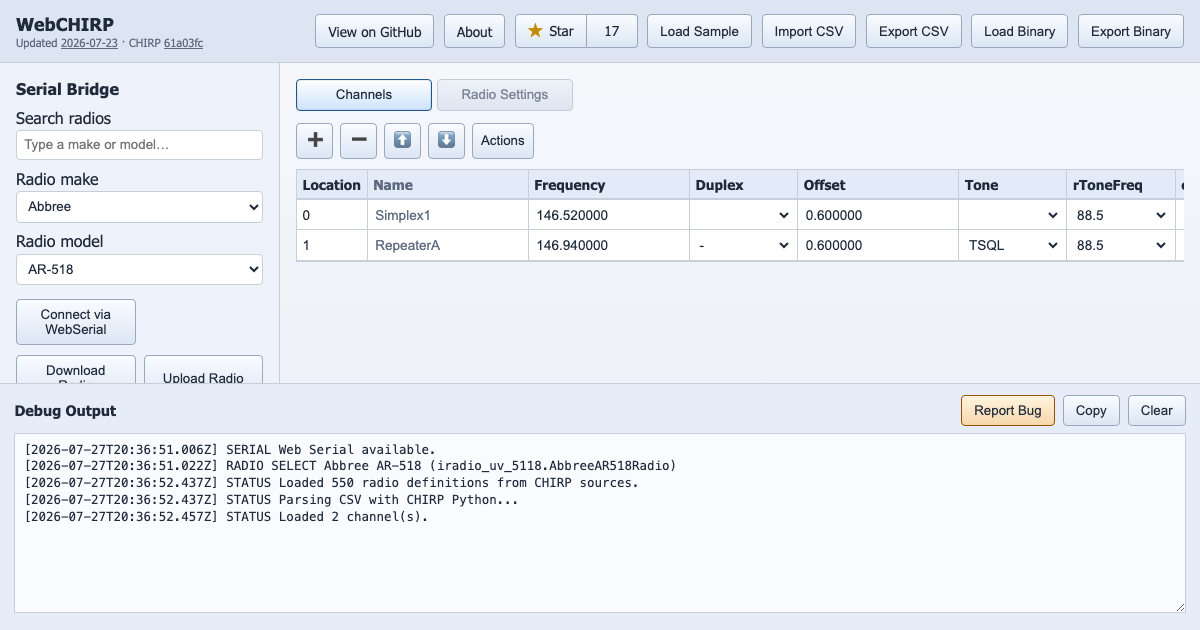
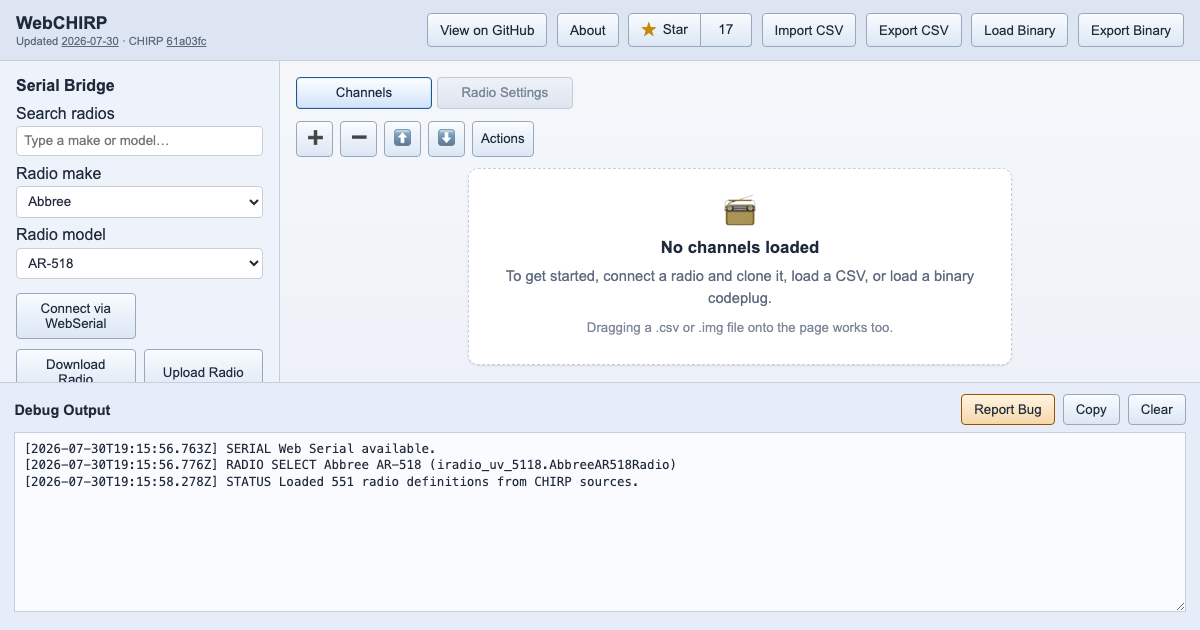
Record the 2026-07-28 and 2026-07-30 releases
Adds the nine PRs merged since the last entry: #23 and #24 on 2026-07-28,
and #28, #32, #36, #37, #38, #40, #41 on 2026-07-30.

Regenerates the screenshots, which were showing the two example channels that
#40 removed, and the stale "Updated" date.

diff --git a/RELEASE_NOTES.md b/RELEASE_NOTES.md
@@ -1,5 +1,18 @@
 # Release Notes
 
+## 2026-07-30
+- Binary `.img` files that carry no CHIRP metadata trailer now load: when nothing identifies the driver up front, every driver is imported once per session so CHIRP's own byte-sniffing can detect the model — Yaesu FT-60/FT-817/VX-*, Baofeng UV-3R, Puxing, TYT TH-7800, Wouxun KG-UV8D and the Kenwood TK-* series all previously failed with `Unknown file format` (#28).
+- Added an app-wide progress strip at the top of the Debug Output panel, so the ~20-second all-drivers load reports its progress instead of looking like a hang; the app now uses Arial throughout, keeping the debug log monospace (#41).
+- Writing edited channels back to a radio or `.img` no longer corrupts power levels, duplex, or frequency precision — 113 of 248 upstream test images previously failed to re-export (#32, fixes #31).
+- CSV export now matches desktop CHIRP's own export: a phantom channel 0 no longer appears on radios whose channels start at location 1, D-STAR channels are no longer dropped, and power is written in watts as CHIRP writes it (#36).
+- Hovering a Power cell or the Power column header now shows what each driver power label is worth in watts, e.g. `Hi = 5.0W, L3 = 2.5W` (#37).
+- The Quansheng TG-UV2+ now appears in the radio list and its images detect correctly; drivers that import pyserial at module scope no longer fail silently in the browser runtime (#38, fixes #29).
+- The app now opens with an empty channel list and a "No channels loaded" notice instead of two example channels; the Load Sample button was removed (#40).
+
+## 2026-07-28
+- Added a native CH340/CH341 WebUSB driver, so the most common cheap programming cables now work on Android Chrome alongside the existing FTDI and PL2303 support (#24).
+- The "Updated `<date>`" line under the title is now generated at build time from the newest heading in these release notes, instead of shipping a stale committed date (#23).
+
 ## 2026-07-27
 - Dragging a CHIRP CSV or binary `.img` file anywhere onto the page now loads it, with the same replace-or-merge prompt as the Import CSV picker (#19).
 - Virtualized the channel grid: insert/remove/move on a 500-channel codeplug now takes 2–9 ms instead of 2.0–3.7 s (#18).
